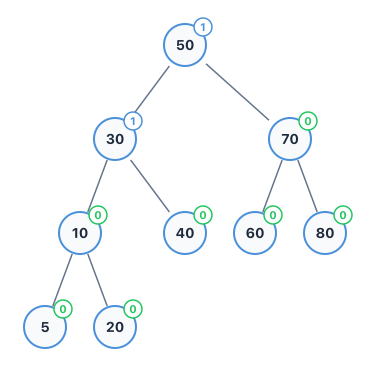
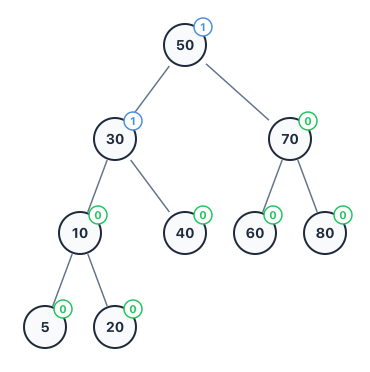
Unify structural tree node borders across tree types

diff --git a/test/tree-builders.test.ts b/test/tree-builders.test.ts
@@ -1,4 +1,5 @@
 import { describe, it, expect } from 'vitest';
+import { buildAvl } from '../src/diagrams/triton/ds/tree/avl.js';
 import { buildRbtree } from '../src/diagrams/triton/ds/tree/rbtree.js';
 import { buildBtree } from '../src/diagrams/triton/ds/tree/btree.js';
 import { buildRadix } from '../src/diagrams/triton/ds/tree/radix.js';
@@ -8,7 +9,7 @@ import { layoutTree } from '../src/diagrams/triton/ds/tree/layout.js';
 import { defaultTheme, executiveTheme } from '../src/theme/preset.js';
 import { resolveTheme } from '../src/theme/resolver.js';
 import type { TreeDocument } from '../src/diagrams/triton/ds/tree/ir.js';
-import type { Color, SceneCircle } from '../src/contracts/index.js';
+import type { Color, ResolvedTheme, SceneCircle, SceneRect } from '../src/contracts/index.js';
 
 const byId = (doc: TreeDocument) => new Map(doc.nodes.map(n => [n.id, n]));
 
@@ -48,8 +49,24 @@ function contrastRatio(a: Color, b: Color): number {
   return (hi + 0.05) / (lo + 0.05);
 }
 
+function outlineStroke(fill: Color, theme: ResolvedTheme): Color {
+  const canvas = parseHex(theme.palette.background) ? theme.palette.background : theme.palette.surface;
+  const candidates = [theme.palette.text, theme.palette.border, theme.palette.textMuted, theme.palette.background];
+  let best = theme.palette.text, score = -Infinity;
+  for (const c of candidates) {
+    if (!parseHex(c)) continue;
+    const next = Math.min(contrastRatio(c, fill), contrastRatio(c, canvas)) + contrastRatio(c, canvas) * 0.15;
+    if (next > score) { best = c; score = next; }
+  }
+  return best;
+}
+
 function nodeCircles(doc: TreeDocument, theme = defaultTheme): SceneCircle[] {
   return layoutTree(doc, theme).scene.elements.filter((el): el is SceneCircle => el.type === 'circle');
+}
+
+function nodeRects(doc: TreeDocument, theme = defaultTheme): SceneRect[] {
+  return layoutTree(doc, theme).scene.elements.filter((el): el is SceneRect => el.type === 'rect');
 }
 
 describe('rbtree builder', () => {
@@ -98,6 +115,56 @@ describe('rbtree builder', () => {
 
     expect(blackRoot.fill).not.toBe(nodeCircles(doc, defaultTheme)[0]!.fill);
     expect(contrastRatio(blackRoot.stroke, transparentExecutive.palette.surface)).toBeGreaterThanOrEqual(4.5);
+  });
+
+  it('uses the neutral outline treatment for AVL, plain circle, and RB structural borders', () => {
+    const themes = [
+      defaultTheme,
+      resolveTheme({ palette: { background: '#0f1117' } }, executiveTheme),
+    ];
+    const plainCircle: TreeDocument = {
+      version: '1.0',
+      metadata: {},
+      direction: 'TB',
+      nodes: [{ id: 'n0', label: '42', kinds: ['circle'], children: [] }],
+    };
+    const avl = buildAvl('avl insert 20 10 30');
+    const rb = buildRbtree('rbtree insert 13 8 17 1 11 15 25 6');
+
+    for (const theme of themes) {
+      const expectedSurfaceOutline = outlineStroke(theme.palette.surface, theme);
+      const plain = nodeCircles(plainCircle, theme)[0]!;
+      const avlRoot = nodeCircles(avl, theme)[0]!;
+      const rbCircles = nodeCircles(rb, theme);
+      const redIndex = rb.nodes.findIndex(n => n.kinds.includes('red'));
+
+      expect(plain.stroke).toBe(expectedSurfaceOutline);
+      expect(avlRoot.stroke).toBe(expectedSurfaceOutline);
+      expect(plain.stroke).not.toBe(theme.palette.primary);
+      expect(avlRoot.stroke).not.toBe(theme.palette.primary);
+      expect(rbCircles[0]!.stroke).toBe(outlineStroke(rbCircles[0]!.fill, theme));
+      expect(rbCircles[redIndex]!.stroke).toBe(outlineStroke(rbCircles[redIndex]!.fill, theme));
+    }
+  });
+
+  it('keeps state node strokes semantic after structural border unification', () => {
+    const doc: TreeDocument = {
+      version: '1.0',
+      metadata: {},
+      direction: 'TB',
+      nodes: [
+        { id: 'n0', label: 'Active', kinds: ['active'], children: ['n1', 'n2', 'n3'] },
+        { id: 'n1', label: 'Seq Scan', kinds: ['scan'], children: [] },
+        { id: 'n2', label: 'Hash Join', kinds: ['join'], children: [] },
+        { id: 'n3', label: 'Hash', kinds: ['build'], children: [] },
+      ],
+    };
+    const [active, scan, join, build] = nodeRects(doc, defaultTheme);
+
+    expect(active!.stroke).toBe(defaultTheme.palette.primary);
+    expect(scan!.stroke).toBe(defaultTheme.palette.primary);
+    expect(join!.stroke).toBe(defaultTheme.palette.secondary);
+    expect(build!.stroke).toBe(defaultTheme.palette.textMuted);
   });
 });
 

diff --git a/src/diagrams/triton/ds/tree/layout.ts b/src/diagrams/triton/ds/tree/layout.ts
@@ -157,7 +157,8 @@ function nodeStyle(kinds: readonly string[], theme: ResolvedTheme): NodeStyle {
   if (has('scan'))   return { shape, fill: palette.surface, stroke: palette.primary, text: palette.text };
   if (has('join'))   return { shape, fill: palette.surface, stroke: palette.secondary, text: palette.text };
   if (has('build') || has('muted')) return { shape, fill: palette.surface, stroke: palette.textMuted, text: palette.text };
-  return { shape, fill: palette.surface, stroke: palette.primary, text: palette.text };
+  const fill = palette.surface;
+  return { shape, fill, stroke: outlineStroke(fill, theme), text: palette.text };
 }
 
 /** Build the muted info sub-line from a node's parsed attributes. */